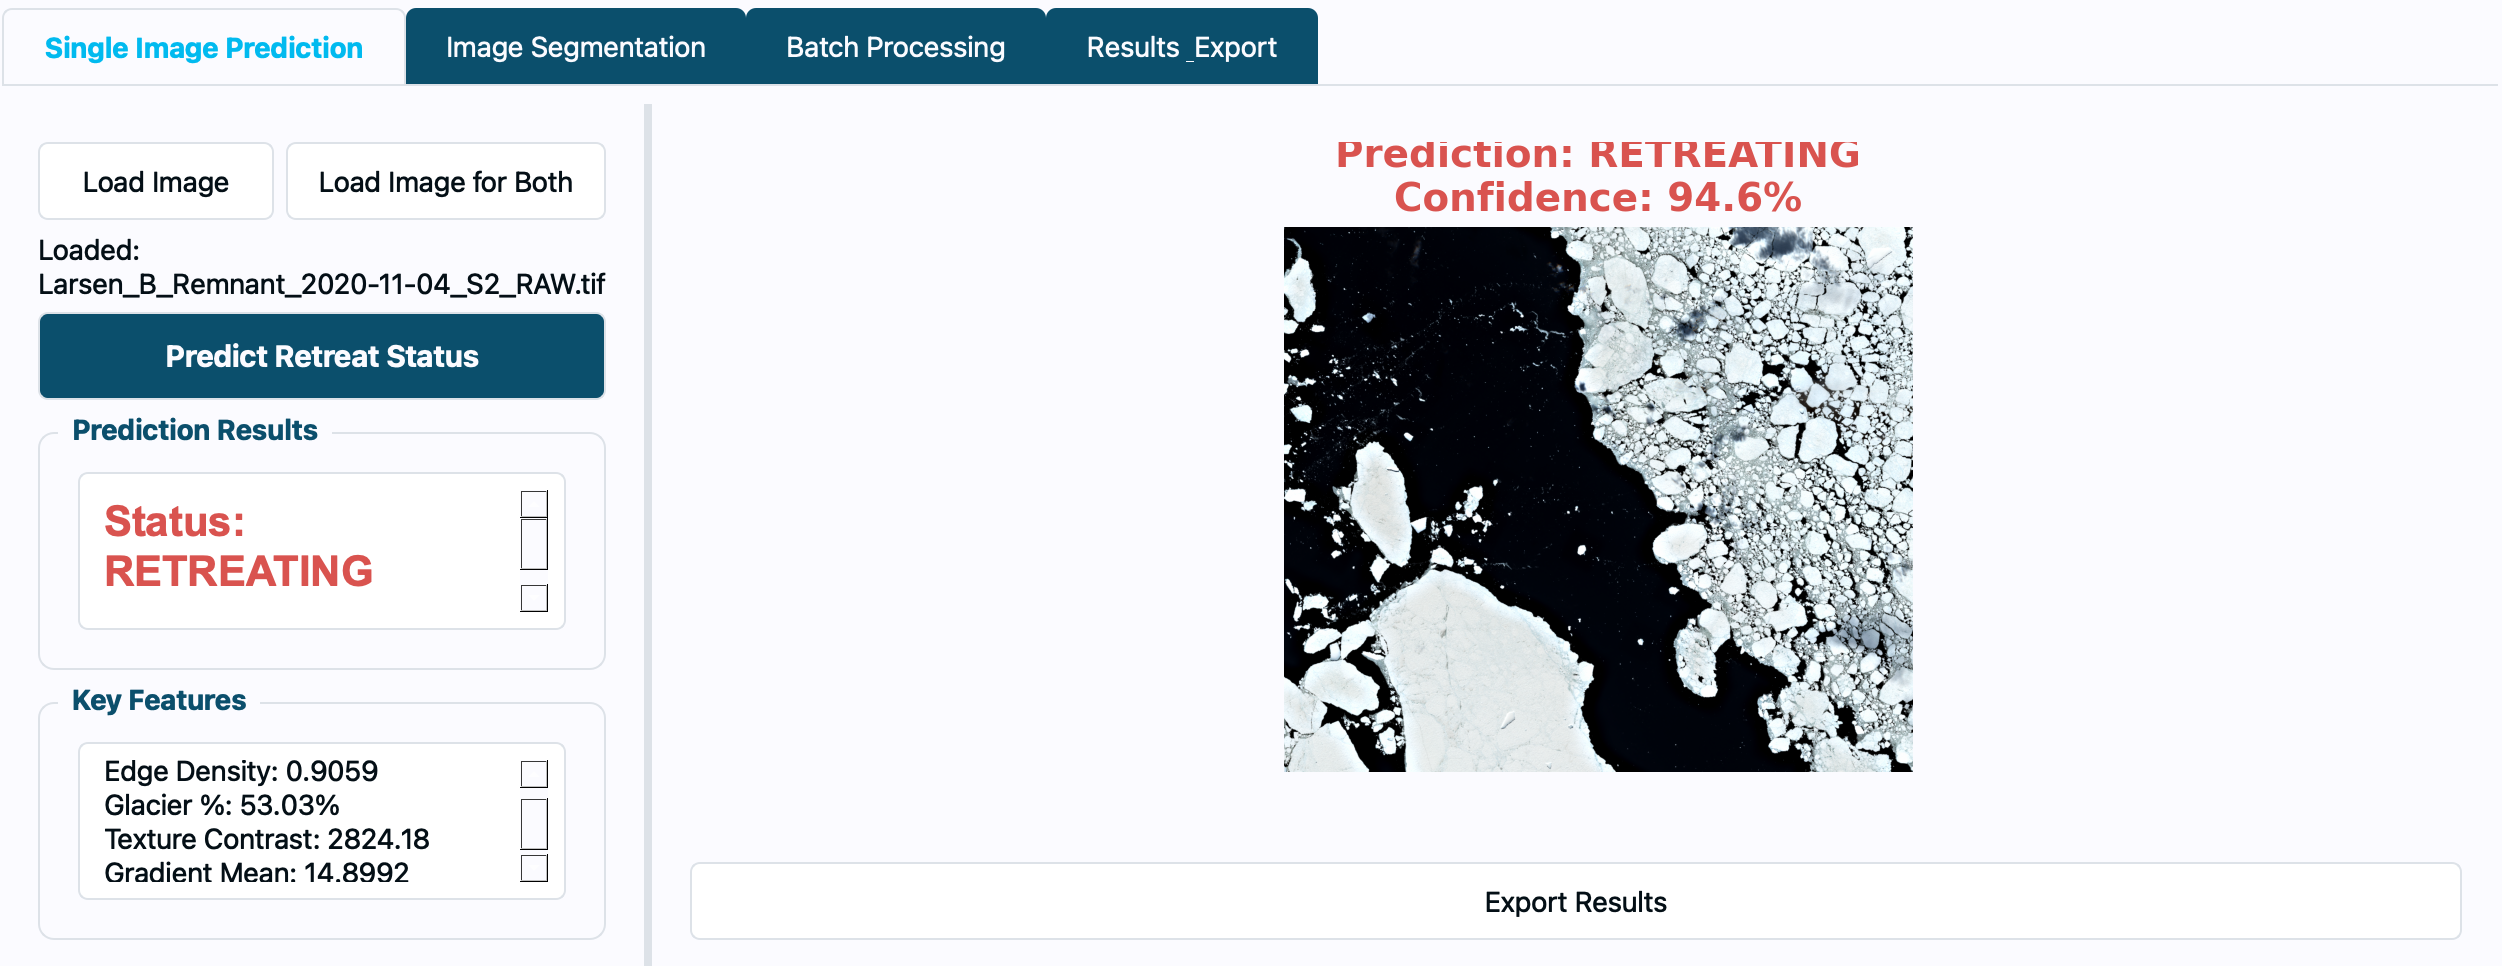
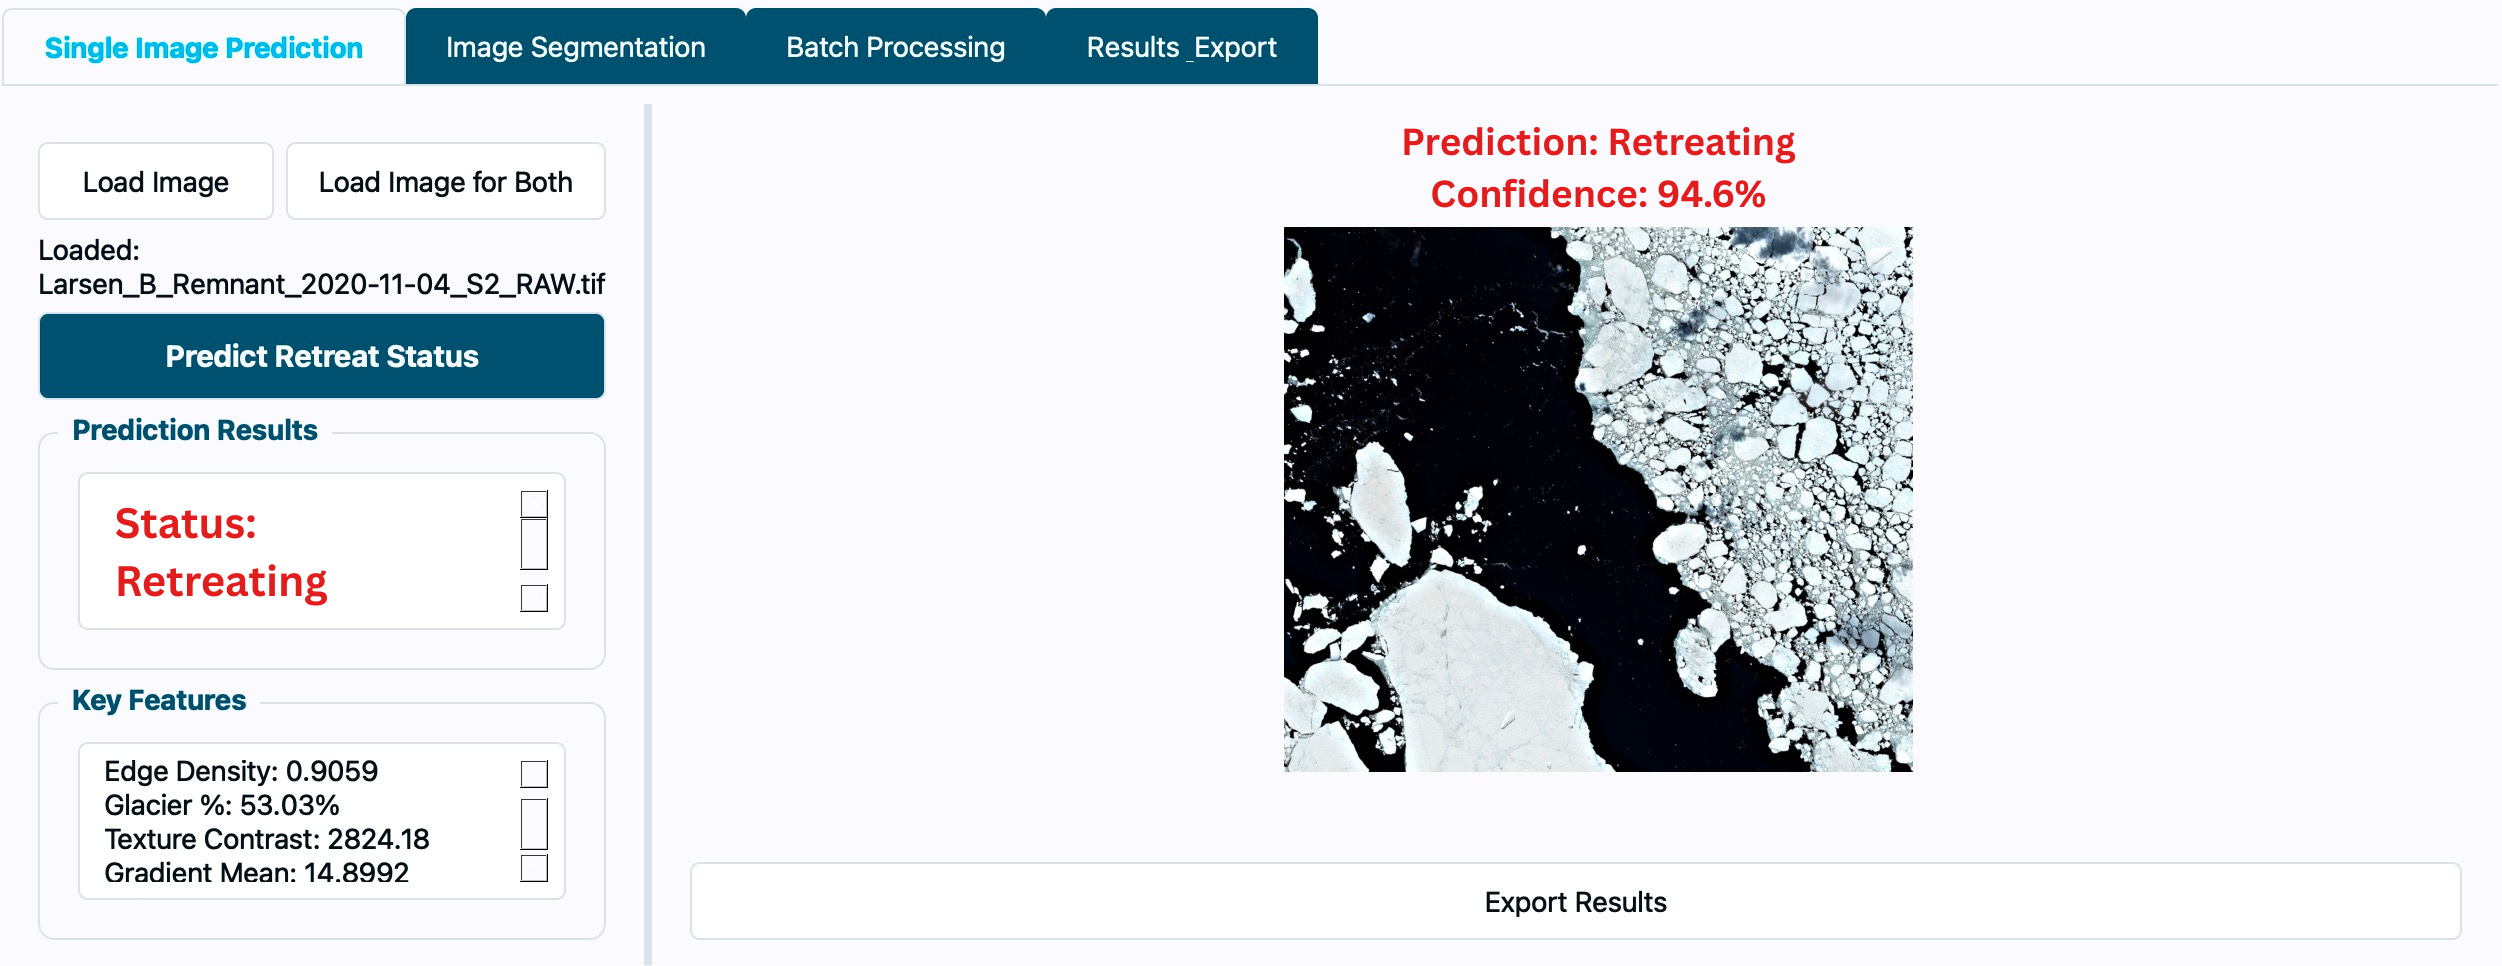
Added screenshots in assets/

Changed region(s): [[0.53, 0.1242, 0.7482, 0.2174], [0.0312, 0.528, 0.1559, 0.6211], [0.0, 0.0311, 0.1559, 0.0621]]

diff --git a/README.md b/README.md
@@ -1,68 +1,70 @@
 # Glacier Probe Model
 
-An engine for analyzing and mapping long-term glacier retreat patterns using satellite imagery. This project employs a hybrid approach combining traditional machine learning with deep learning techniques to detect, segment, and track glacier boundaries over time.
-
-![Project Status](https://img.shields.io/badge/status-in%20dev-green)
-![Python Version](https://img.shields.io/badge/python-3.8%2B-blue)
-![License](https://img.shields.io/badge/license-MIT-orange)
+An engine for analyzing and mapping long-term glacier retreat patterns using satellite imagery. This project provides a standalone application for analyzing glacier disintegration using classic computer vision and machine learning techniques.
 
 <div>
-    <img src="assets/readme_media/cliff_example.jpg">
-    <img src="assets/readme_media/processed_img_example.jpg">
+    <img src="assets/readme_media/cliff_example.jpg" >
+    
 </div>
 
-(PS : The images is not related to this project.)
+
 
 ## Overview
 
-A computer vision project analyzing glacier disintegration over time to support climate awareness and action. Glacier Probe Model applies image segmentation, edge detection, and temporal pattern recognition to multi-decadal satellite imagery, tracking glacier boundary changes and quantifying ice loss rates. The system combines traditional computer vision techniques with machine learning for baseline detection, then employs deep learning-based semantic segmentation to handle complex scenarios including debris-covered glaciers and shadowed regions.
+This project is a computer vision tool built with **PyQt6** for analyzing glacier satellite imagery. It allows users to load their own pre-trained machine learning models (`.pkl` files) to perform two primary tasks:
+
+* **Glacier Retreat Classification:** Predicts if a glacier in an image is *Stable* or *Retreating* based on a comprehensive set of 89 extracted image features.
+* **Image Segmentation:** Classifies each pixel in an image as *Ice*, *Water*, or *Other* using image features to generate a detailed segmentation map and statistics.
+
+The application is designed to be user-friendly, allowing researchers to apply their own models to new imagery without complex scripting. It runs analysis in the background using `QThread` to keep the UI responsive.
+
+
 
 ## Key Capabilities
 
-**Phase 1: ML-Based Detection**
-- NDSI (Normalized Difference Snow Index) calculation from multispectral bands
-- Random Forest classifier trained on spectral, texture (GLCM), and terrain features
-- Automated cloud masking using QA bands
-- Temporal image co-registration and atmospheric correction
+* **PyQt6 GUI Application**
+* **Standalone desktop tool** for Windows, macOS, and Linux
+* Tabbed interface for *Retreat Classification* and *Image Segmentation*
+* Allows loading of custom joblib (`.pkl`) models, scalers, and feature lists
+* Asynchronous model execution using `QThread`
+* Interactive visualization panel using **Matplotlib**
 
-**Phase 2: Deep Learning Enhancement**
-- U-Net semantic segmentation for precise boundary delineation
-- Transfer learning using ImageNet pre-trained encoders
-- Temporal consistency enforcement across time series
-- Debris-covered glacier detection using additional NIR/SWIR band combinations
 
-**Analysis Pipeline**
-- Multi-decadal change detection (1984-present)
-- Automated area loss quantification and retreat rate calculation
-- Statistical analysis of seasonal variations
+
+## Glacier Retreat Classification
+
+* Predicts if a glacier is *Stable* or *Retreating*
+* Extracts 89 features (spectral, texture, edge, morphological, statistical, and gradient)
+* Displays prediction results with probabilities and feature values
+* Exports results as **PNG** or **CSV**
+
+
+
+## Pixel-Level Segmentation
+
+* Classifies each pixel as *Ice*, *Water*, or *Other*
+* Uses a 9-feature extraction pipeline per pixel (RGB, local means, brightness, color ratios)
+* Provides visual overlays and class statistics
+* Exports visualization as **PNG** or segmentation map as **.npy**
+
 
 ## Dependencies
 
-### Core Libraries
-- Python 3.8+
-- PyTorch 2.0+ or TensorFlow 2.12+
-- Scikit-learn 1.3+
-- OpenCV 4.8+
-- NumPy 1.24+, Pandas 2.0+
+Requires **Python 3.8+** and the following libraries:
 
-### Geospatial Processing
-- Rasterio 1.3+ (GeoTIFF handling)
-- GDAL 3.6+
-- Google Earth Engine Python API
-- Sentinelsat (Sentinel-2 data access)
-- GeoPandas 0.13+ (vector operations)
-- Earthpy 0.9+
+```bash
+PyQt6
+matplotlib
+numpy
+pandas
+rasterio
+joblib
+scikit-image
+scipy
+Pillow
+```
 
-### Machine Learning
-- Scikit-image 0.21+ (edge detection, texture features)
-- XGBoost 2.0+
-- Segmentation Models PyTorch
-- timm (pre-trained encoders)
 
-### Visualization
-- Matplotlib 3.7+, Plotly 5.17+
-- Folium 0.14+ (interactive maps)
-- Streamlit 1.28+ (web dashboard)
 
 ## Installation
 
@@ -76,79 +78,41 @@ python -m venv venv
 source venv/bin/activate  # On Windows: venv\Scripts\activate
 
 # Install dependencies
-pip install -r requirements.txt
-
-# Install GDAL (if not already installed)
-# Ubuntu/Debian
-sudo apt-get install gdal-bin libgdal-dev
-
-# macOS
-brew install gdal
-
-# Windows: Download from https://www.gisinternals.com/
-
-# Authenticate Google Earth Engine (for data download)
-earthengine authenticate
+pip install PyQt6 matplotlib numpy pandas rasterio joblib scikit-image scipy Pillow
 ```
+
+
 
 ## Quick Start
 
-### Basic Glacier Detection
+### 1. Prepare Your Models
 
-```python
-from glacier_probe import GlacierDetector, ChangeAnalyzer
+Ensure you have the following pre-trained `.pkl` models:
 
-# Initialize detector
-detector = GlacierDetector(
-    method='random_forest',
-    ndsi_threshold=0.4,
-    cloud_threshold=20
-)
+* `glacier_retreat_model_svm_(rbf).pkl`
+* `glacier_retreat_scaler.pkl`
+* `glacier_retreat_features.pkl`
+* `glacier_segmentation_model.pkl`
+* `glacier_segmentation_scaler.pkl`
 
-# Load Landsat 8 scene
-image = detector.load_image('LC08_L2SP_path_row_date.tif')
-
-# Detect glacier boundaries
-glacier_mask = detector.detect(image)
-
-# Save results
-detector.save_mask(glacier_mask, 'output/glacier_2023.tif')
-```
-
-### Multi-Temporal Change Analysis
-
-```python
-# Analyze retreat between two dates
-analyzer = ChangeAnalyzer()
-
-images = [
-    'data/glacier_1990.tif',
-    'data/glacier_2000.tif',
-    'data/glacier_2010.tif',
-    'data/glacier_2023.tif'
-]
-
-results = analyzer.calculate_temporal_change(images)
-
-print(f"Total area loss: {results['area_loss_km2']:.2f} km²")
-print(f"Average retreat rate: {results['retreat_rate_m_per_year']:.2f} m/year")
-```
-
-### Running the Full Pipeline
+### 2. Run the Application
 
 ```bash
-# Step 1: Download and preprocess satellite data
-python scripts/download_data.py --region himalaya --start-date 1990-01-01 --end-date 2023-12-31
-
-# Step 2: ML-based baseline detection
-python scripts/ml_detection.py --input data/processed --output results/ml_baseline
-
-# Step 3: DL refinement (requires trained model)
-python scripts/dl_segmentation.py --input data/processed --checkpoint models/unet_best.pth --output results/dl_refined
-
-# Step 4: Generate analysis report
-python scripts/generate_report.py --ml-results results/ml_baseline --dl-results results/dl_refined --output reports/
+python main.py
 ```
+
+### 3. Load Models in the GUI
+
+* Click **Get Started** on the welcome screen
+* In *Model Configuration*, use **Browse...** to select model files
+* Click **Load Models**
+
+### 4. Run Analysis
+
+* Go to *Single Image Prediction* or *Image Segmentation* tab
+* Click **Load Image** and choose `.tif`, `.jpg`, or `.png`
+* Click **Predict Retreat Status** or **Run Segmentation**
+
 
 ## Project Structure
 
@@ -209,103 +173,84 @@ Glacier-Probe-Model/
 └── README.md
 ```
 
+
+
 ## Methodology
 
-### Phase 1: Machine Learning Baseline
+### Glacier Retreat Classification (89 Features)
 
-**Preprocessing & Computer Vision Pipeline:**
-- Atmospheric correction and radiometric normalization
-- Cloud masking using QA band analysis
-- Image co-registration for temporal alignment
-- Edge detection using Canny and Sobel operators for boundary refinement
+* **Spectral Features:** Mean/std of bands, color ratios, brightness, saturation
+* **Edge Features:** Sobel & Canny edge stats
+* **Texture Features:** GLCM, LBP, entropy
+* **Morphological Features:** Area, perimeter, eccentricity, solidity
+* **Statistical Features:** Skewness, kurtosis
+* **Gradient Features:** Gradient mean, std, direction
 
-**Feature Extraction:**
-- Spectral indices: NDSI, NDWI, NDVI
-- Texture features: GLCM (contrast, homogeneity, energy)
-- Morphological operations for noise reduction
-- Terrain derivatives from DEM
+### Pixel-Level Segmentation (9 Features)
 
-**Classification:**
-- Random Forest with spectral and texture features
-- Post-processing: morphological opening/closing, contour analysis
-- Minimum area filtering for false positive reduction
+* RGB values
+* Local mean RGB (7x7 window)
+* Brightness
+* Color ratios (B/R, G/R)
 
-**Expected Performance:** IoU 0.82-0.88, F1 Score 0.85-0.91
 
-### Phase 2: Deep Learning Enhancement
-
-**Training Data & Image Segmentation:**
-- 256×256 pixel patches from satellite scenes
-- Use Phase 1 predictions as pseudo-labels
-- Data augmentation: rotation, flipping, color transforms
-- Train/val/test split: 70/15/15
-
-**U-Net Architecture:**
-- Encoder: ResNet34/ResNet50 (pre-trained)
-- Loss: Binary Cross-Entropy + Dice Loss
-- Optimizer: AdamW, learning rate 1e-4
-- Training: 50-100 epochs with early stopping
-
-**Computer Vision Enhancement:**
-- Boundary refinement using contour detection
-- Temporal consistency through median filtering
-- Multi-scale feature extraction for debris-covered regions
-
-**Expected Performance:** IoU 0.89-0.94 (clean ice), 0.72-0.82 (debris-covered)
 
 ## Performance Metrics
 
-- Intersection over Union (IoU)
-- F1 Score (Dice Coefficient)
-- Pixel Accuracy
-- Boundary F1 (within 30m buffer)
-- Temporal Consistency Score
+* **Classification:** Accuracy, Precision, Recall, F1 Score
+* **Segmentation:** Pixel Accuracy, IoU, Dice Coefficient
+
+
 
 ## Contributing
 
-Contributions are welcome. Please:
+Contributions are welcome!
 
 1. Fork the repository
-2. Create a feature branch (`git checkout -b feature/improved-segmentation`)
-3. Commit changes with clear messages
-4. Ensure tests pass (`pytest tests/`)
-5. Submit a pull request
+2. Create a new branch:
+
+   ```bash
+   git checkout -b feature/new-feature
+   ```
+3. Commit your changes and submit a PR
+
+
 
 ## Citation
 
-If this project contributes to your research, please cite:
-
 ```bibtex
-@software{glacier_probe_model_2025,
+@software{glacier_probe_model_app_2025,
   author = {Manjushwar},
-  title = {Glacier Probe Model: Hybrid ML-DL System for Glacier Retreat Analysis},
+  title = {Glacier Probe Model: Application for Glacier Analysis},
   year = {2025},
   url = {https://github.com/Manjushwarofficial/Glacier-Probe-Model}
 }
 ```
 
+
+
 ## License
 
-This project is licensed under the MIT License. See LICENSE file for details.
+Licensed under the **MIT License**. See `LICENSE.md` for details.
+
+
 
 ## Acknowledgments
 
-- ESA Copernicus Programme for Sentinel-2 data
-- USGS for Landsat Collection 2 data
-- NSIDC for hosting the Randolph Glacier Inventory
-- GLIMS community for glacier outline validation data
+* ESA Copernicus Programme for Sentinel-2 data
+* USGS for Landsat Collection 2 data
+* NSIDC for Randolph Glacier Inventory
+* GLIMS community for glacier outline validation
+
+
 
 ## Development Roadmap
 
-- [x] Repository initialization and documentation
-- [ ] Data download pipeline implementation (GEE + Sentinelsat)
-- [ ] Phase 1: NDSI baseline and Random Forest classifier
-- [ ] Validation framework with RGI cross-comparison
-- [ ] Phase 2: U-Net architecture and training pipeline
-- [ ] Temporal analysis module with statistical testing
-- [ ] Interactive Streamlit dashboard
-- [ ] REST API for on-demand glacier analysis
-- [ ] Multi-region comparative study (Himalaya, Alps, Andes)
-- [ ] Real-time monitoring system with alert capabilities
+* [x] Core Application Framework (PyQt6)
+* [x] Classification Pipeline (89 features)
+* [x] Segmentation Pipeline (9 features)
+* [x] Asynchronous Execution (QThread)
+* [x] Result Visualization (Matplotlib)
+* [x] Export (PNG, CSV, NPY)
 
-**Status:** This project is under active development. Phase 1 implementation is in progress. Documentation and code will be updated regularly.
+**Status:** Core application with classification & segmentation is complete. Batch processing UI is present but not yet implemented.
